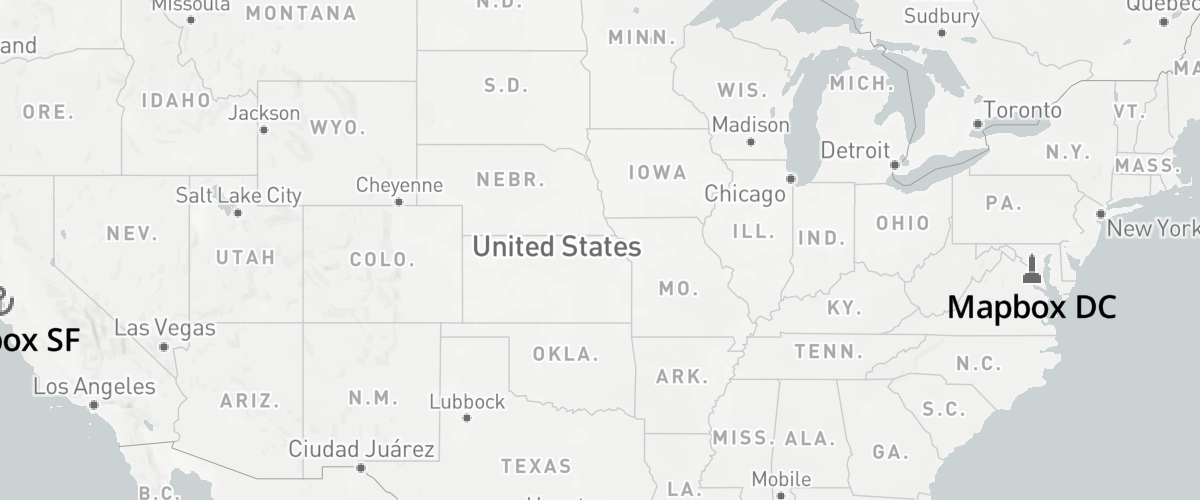
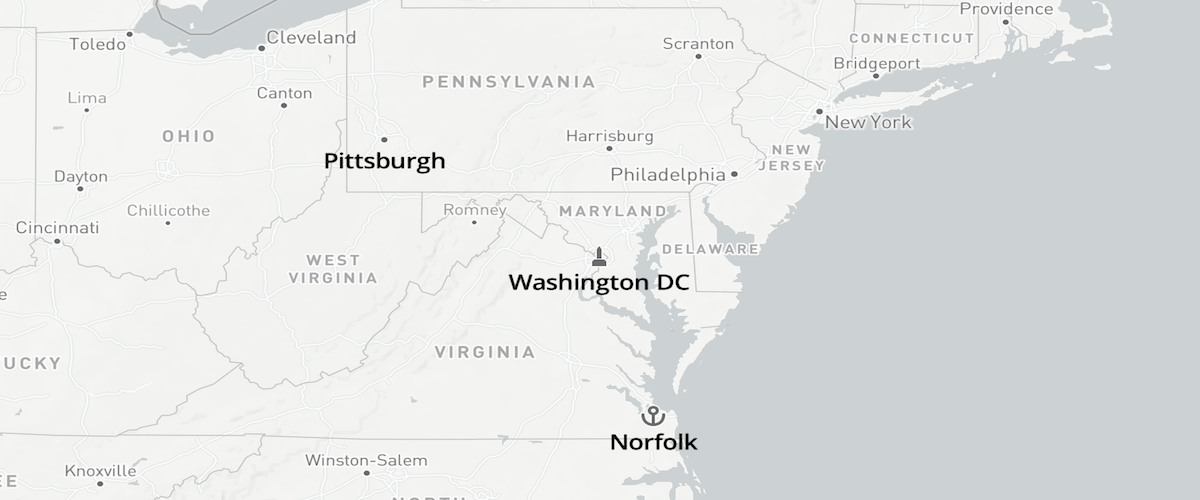
Fix links and address feedback

diff --git a/docs/pages/example/fallback-image.html b/docs/pages/example/fallback-image.html
@@ -3,8 +3,8 @@
 var map = new mapboxgl.Map({
     container: 'map',
     style: 'mapbox://styles/mapbox/light-v10',
-    center: [-96, 37.8],
-    zoom: 3
+    center: [-77, 38.75],
+    zoom: 5
 });
 
 map.on('load', function () {
@@ -23,24 +23,34 @@ map.on('load', function () {
                         "coordinates": [-77.03238901390978, 38.913188059745586]
                     },
                     "properties": {
-                        "title": "Mapbox DC",
+                        "title": "Washington DC",
                         "icon": "monument"
                     }
                 }, {
                     "type": "Feature",
                     "geometry": {
                         "type": "Point",
-                        "coordinates": [-122.414, 37.776]
+                        "coordinates": [-79.9959, 40.4406]
                     },
                     "properties": {
-                        "title": "Mapbox SF",
+                        "title": "Pittsburgh",
+                        "icon": "bridges"
+                    }
+                }, {
+                    "type": "Feature",
+                    "geometry": {
+                        "type": "Point",
+                        "coordinates": [-76.2859, 36.8508]
+                    },
+                    "properties": {
+                        "title": "Norfolk",
                         "icon": "harbor"
                     }
                 }]
             }
         },
         "layout": {
-            "icon-image": ["coalesce", ["image", "image-doesnt-exist"], ["concat", ["get", "icon"], "-15"]],
+            "icon-image": ["coalesce", ["image", ["concat", ["get", "icon"], "-15"]], ["image", "marker-15"]],
             "text-field": ["get", "title"],
             "text-font": ["Open Sans Semibold", "Arial Unicode MS Bold"],
             "text-offset": [0, 0.6],

diff --git a/docs/pages/style-spec.js b/docs/pages/style-spec.js
@@ -1349,19 +1349,23 @@ export default class extends React.Component {
                         </SectionH3>
 
                         <SectionH3
-                            id="types-resolved-image"
+                            id="types-resolvedImage"
                             title="ResolvedImage"
                         >
                             <p>
-                                The <code>ResolvedImage</code> type represents
-                                an image which will be checked against the
-                                current style to see if it is available or not.
-                                This allows for complex image logic such as
-                                fallback and default images.
+                                The <code>resolvedImage</code> type represents
+                                an icon or pattern. The resolvedImage is checked
+                                against the current map style to see if it is
+                                available to be rendered or not. This approach
+                                allows developers to define a series of images
+                                which the map can fall back to if previous
+                                images are not found, which cannot be achieved
+                                by providing, for example, `icon-image` with a
+                                plain string.
                             </p>
                             {highlightJSON(`
                                     {
-                                        "icon-image": ["coalesce", ["image", "myImage"], ["image", "myFallbackImage"]]
+                                        "icon-image": ["coalesce", ["image", "myImage"], ["image", "fallbackImage"]]
                                     }`)}
                         </SectionH3>
 

diff --git a/docs/components/page_shell.js b/docs/components/page_shell.js
@@ -163,7 +163,13 @@ class PageShell extends React.Component {
             if (section.subnav) {
                 subNavItems = section.subnav.map(item => {
                     slugger.reset();
-                    const itemSlug = slugger.slug(item.title);
+                    let maintainCase = false;
+                    let title = item.title;
+                    if (item.title === 'ResolvedImage') {
+                        title = 'resolvedImage';
+                        maintainCase = true;
+                    }
+                    const itemSlug = slugger.slug(title, maintainCase);
                     return {
                         text: item.title,
                         url: `#${sectionSlug}-${itemSlug}`

diff --git a/docs/data/style-spec-navigation.js b/docs/data/style-spec-navigation.js
@@ -145,7 +145,7 @@ export const styleSpecNavigation = [
                 title: 'Formatted'
             },
             {
-                title: 'Resolved Image'
+                title: 'ResolvedImage'
             },
             {
                 title: 'Boolean'
